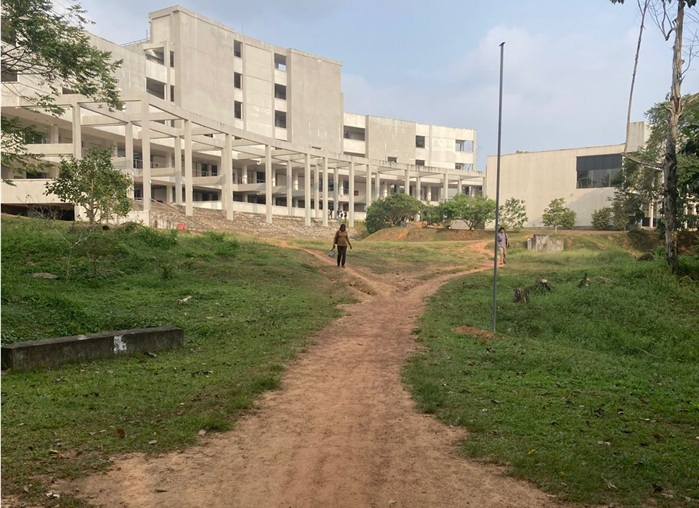
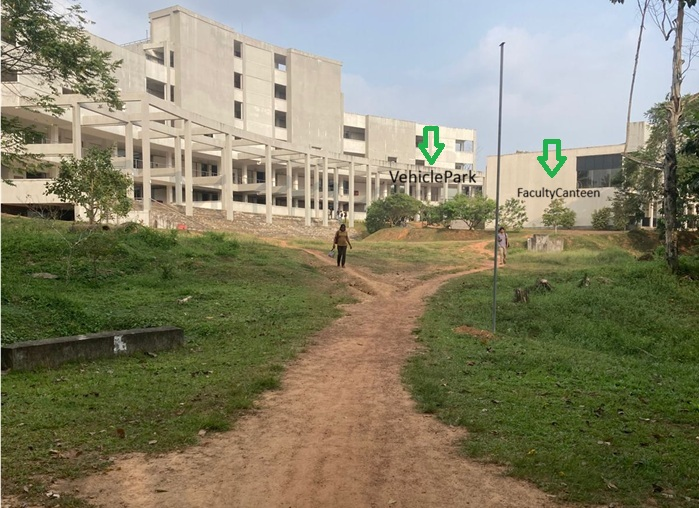
change student area image

Changed region(s): [[0.721, 0.2657, 0.8712, 0.4134], [0.5408, 0.2362, 0.691, 0.3839]]

diff --git a/index.html b/index.html
@@ -22,7 +22,7 @@
             <img class="image" src="./images/maingate.jpg" alt="Main Entrance" usemap="#universitymap">
 
             <map name="universitymap">
-                <area shape="rect" coords="58,216,325,400" href="" alt="Main Entrance">
+                <area shape="rect" coords="58,216,325,400" href="lobby.html" alt="Main Entrance">
                 <area shape="rect" coords="332,216,588,400" href="lobby.html" alt="Main Entrance">
 
             </map>

diff --git a/StudentCommonArea.html b/StudentCommonArea.html
@@ -17,7 +17,7 @@
 
         <map name="universitymap">
             <area shape="rect" coords="500,0,697,507" href="FacultyCanteen.html" alt="Faculty Canteen">
-            <area shape="rect" coords="0,0,362,500" href="VehiclePark.html" alt="Vehicle Park">
+            <area shape="rect" coords="0,0,494,464" href="VehiclePark.html" alt="Vehicle Park">
         </map>
     </section>
     
